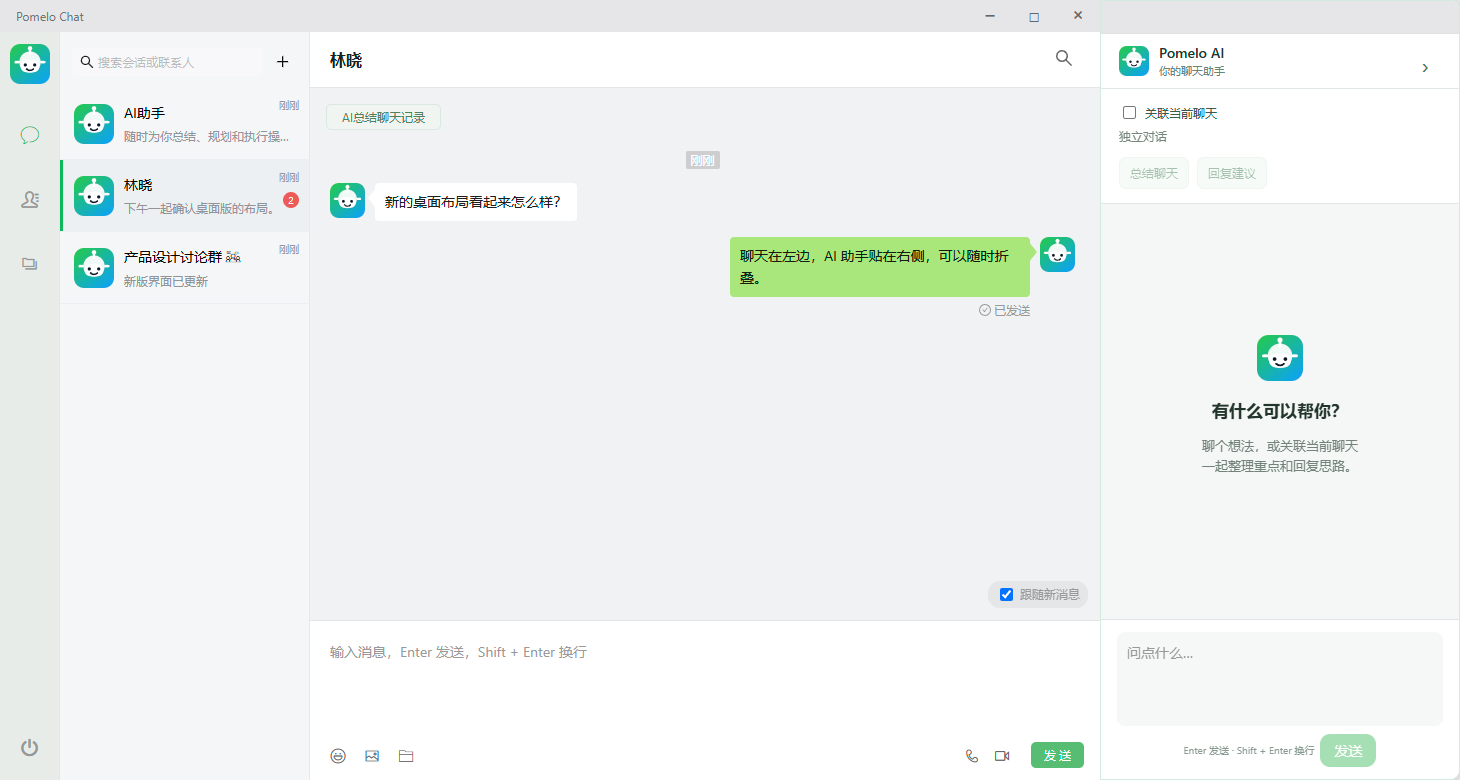
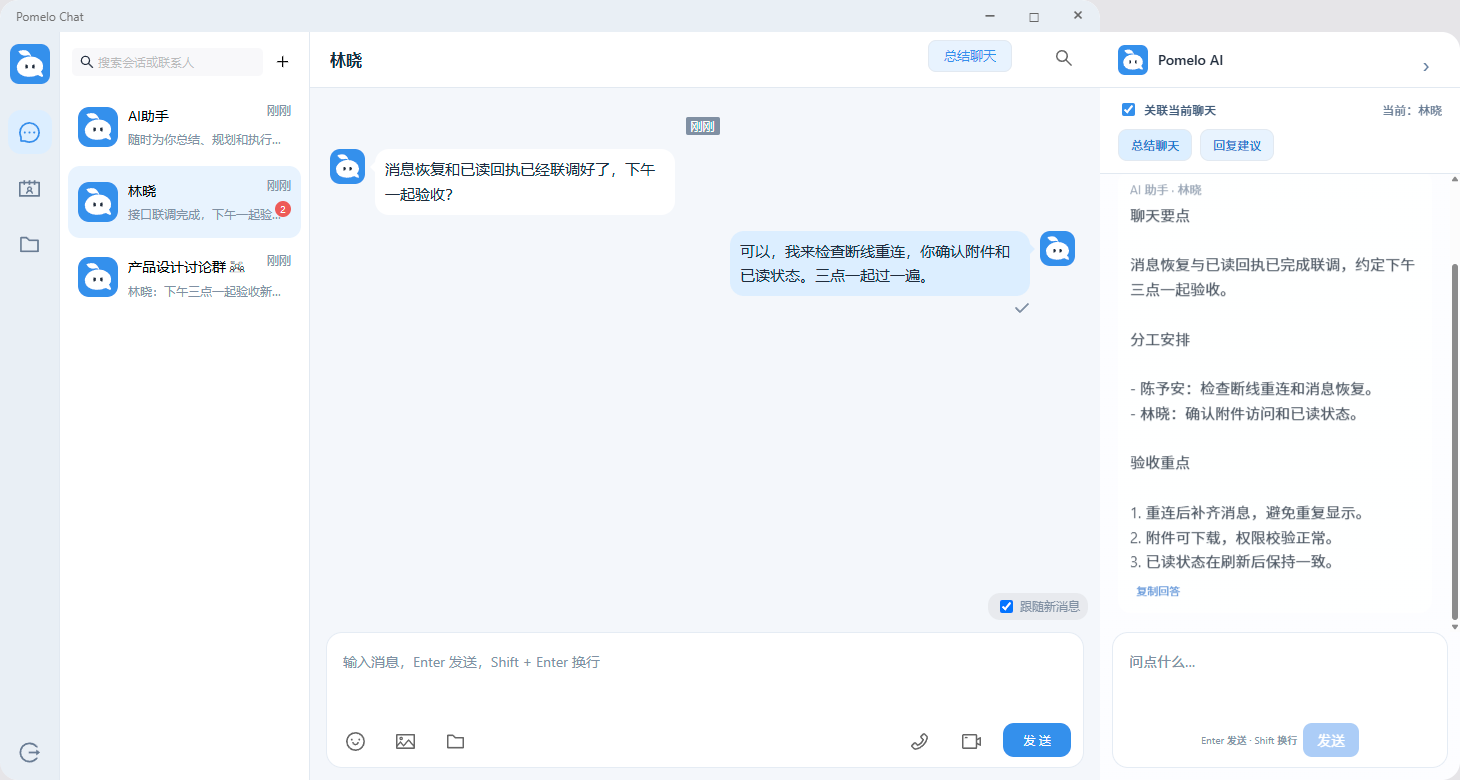
Refresh README screenshot with current desktop chat and AI sidebar

diff --git a/README.md b/README.md
@@ -2,7 +2,9 @@
 
 Pomelo Chat 是一个支持浏览器与 Electron 桌面的即时通讯项目，提供单聊、群聊、文件传输、音视频通话和 AI 助手。
 
-![聊天主窗口与 AI 助手](docs/images/desktop-ui.png)
+![桌面聊天主窗口与关联当前会话的 AI 总结侧栏](docs/images/desktop-ui.png)
+
+当前桌面界面，使用演示会话与模拟 AI 回复。
 
 ## 项目架构
 
